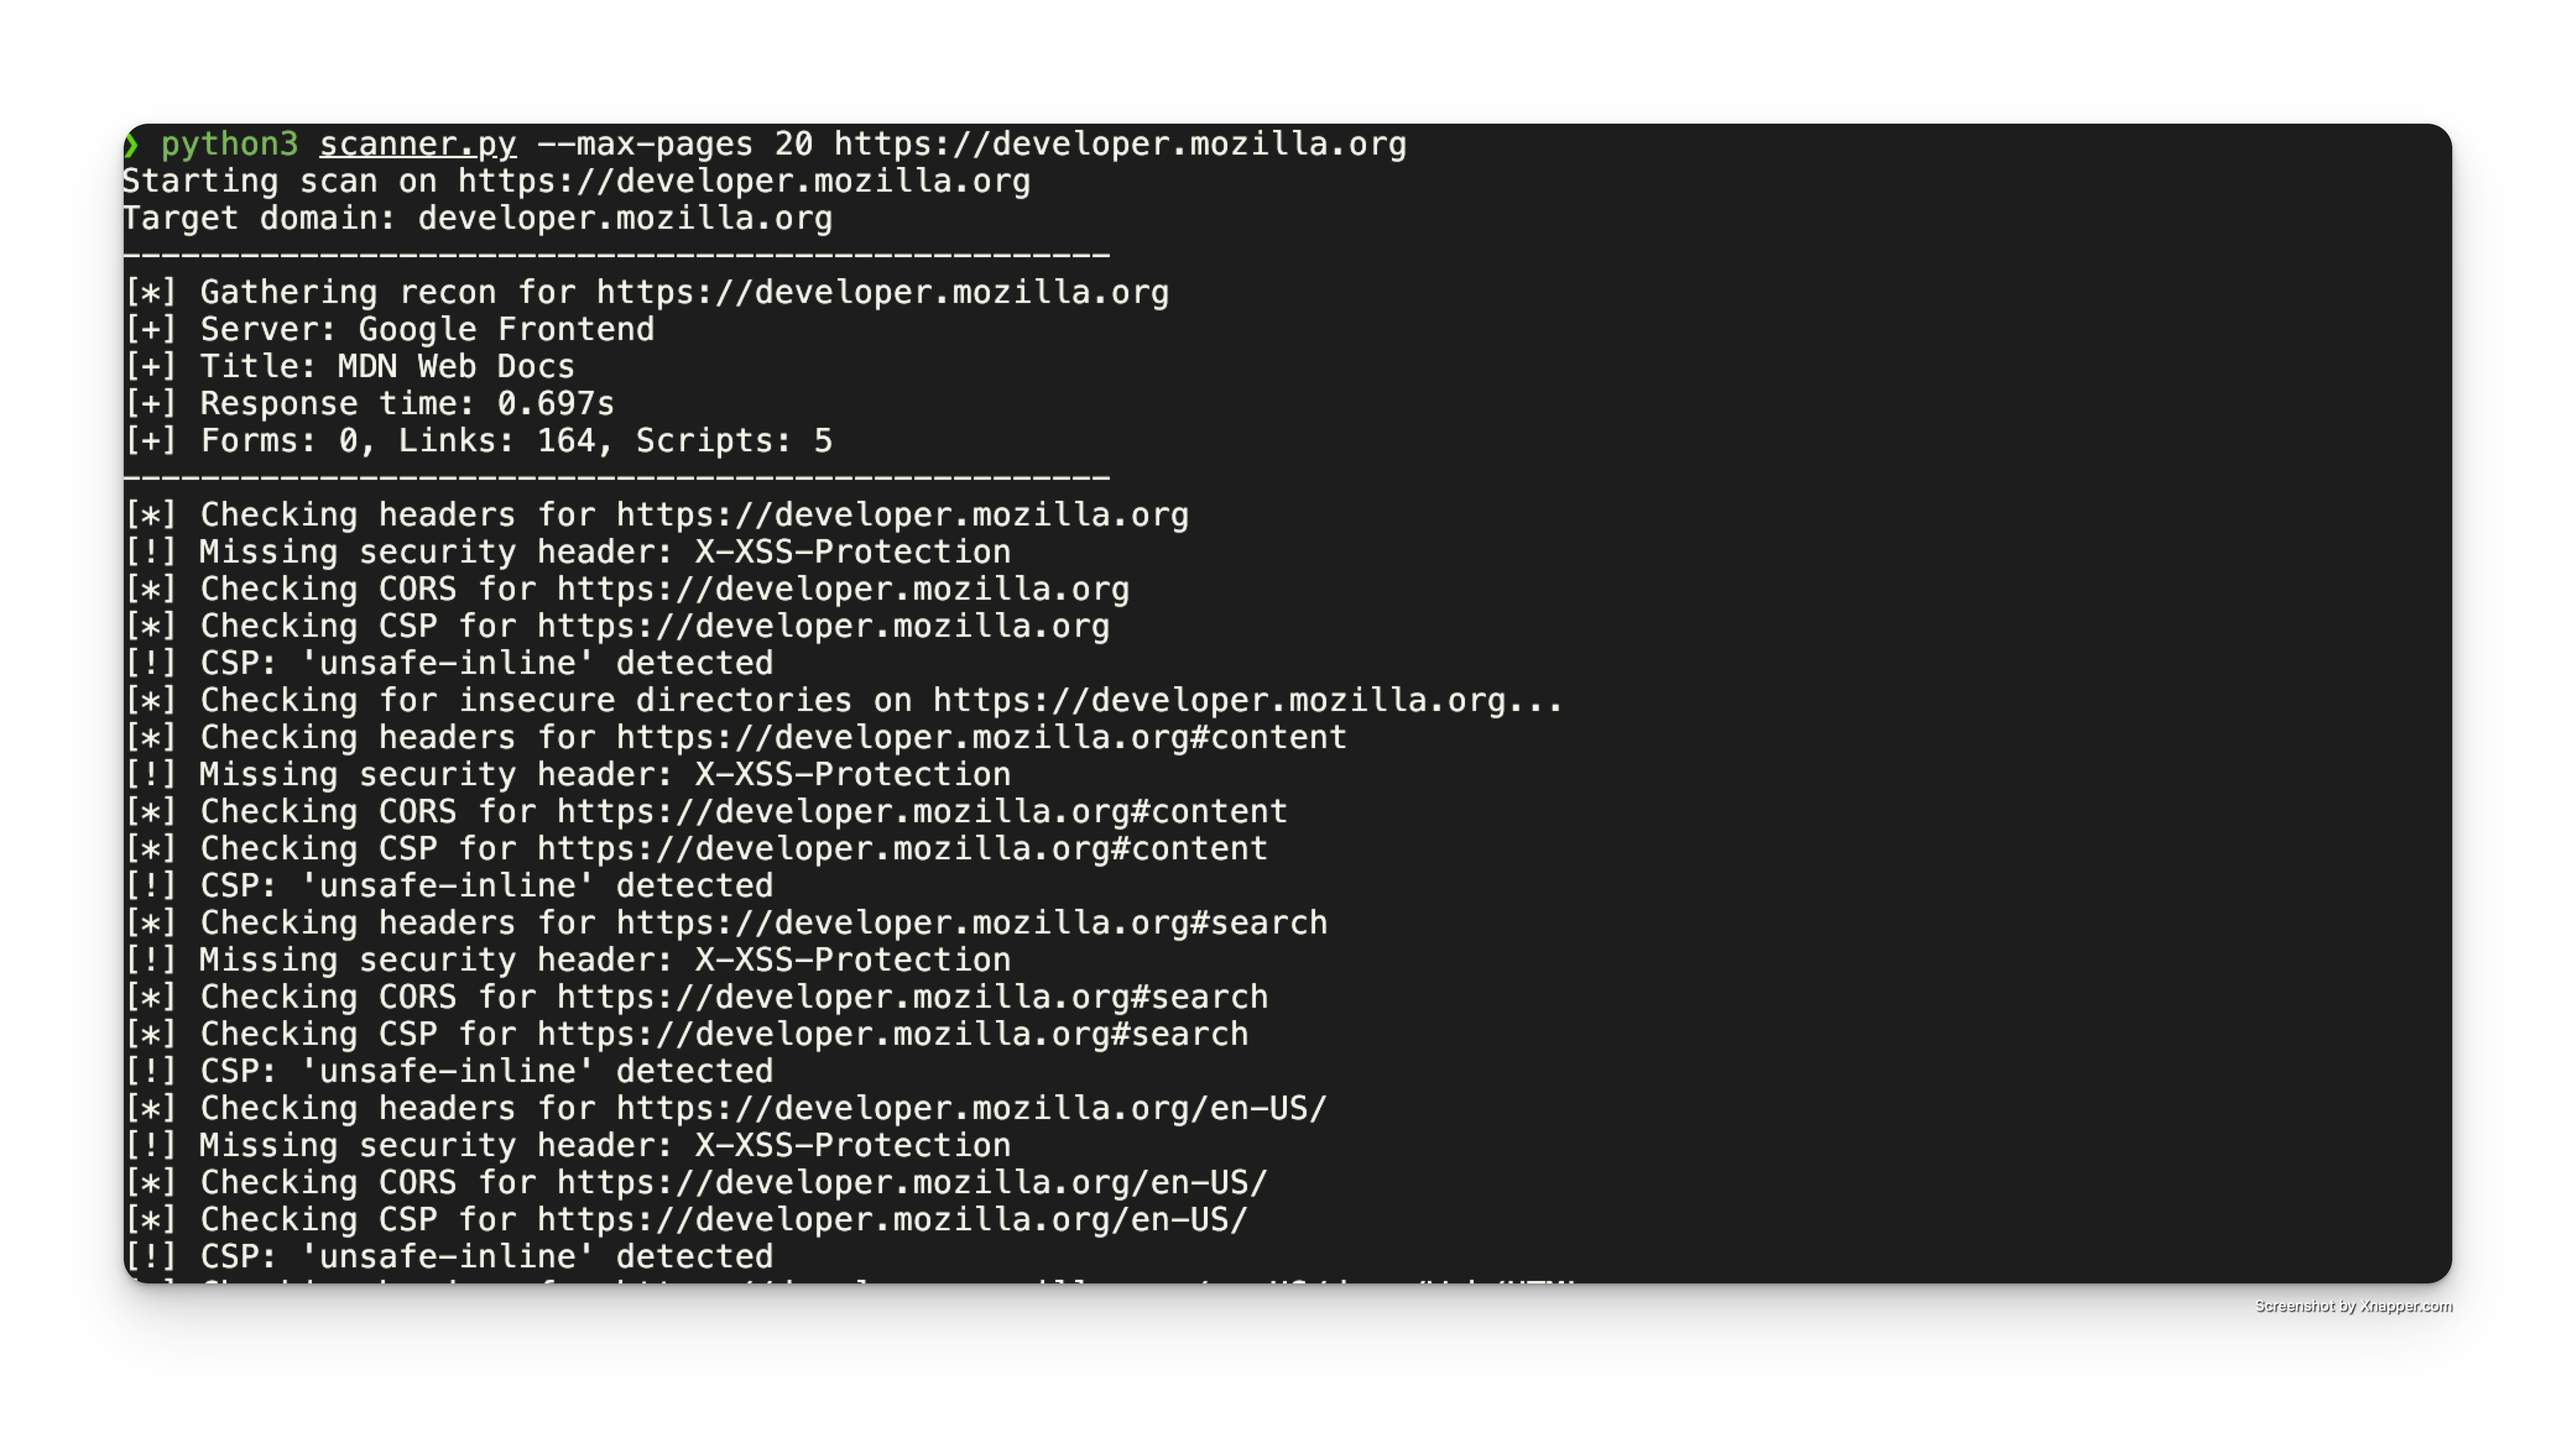
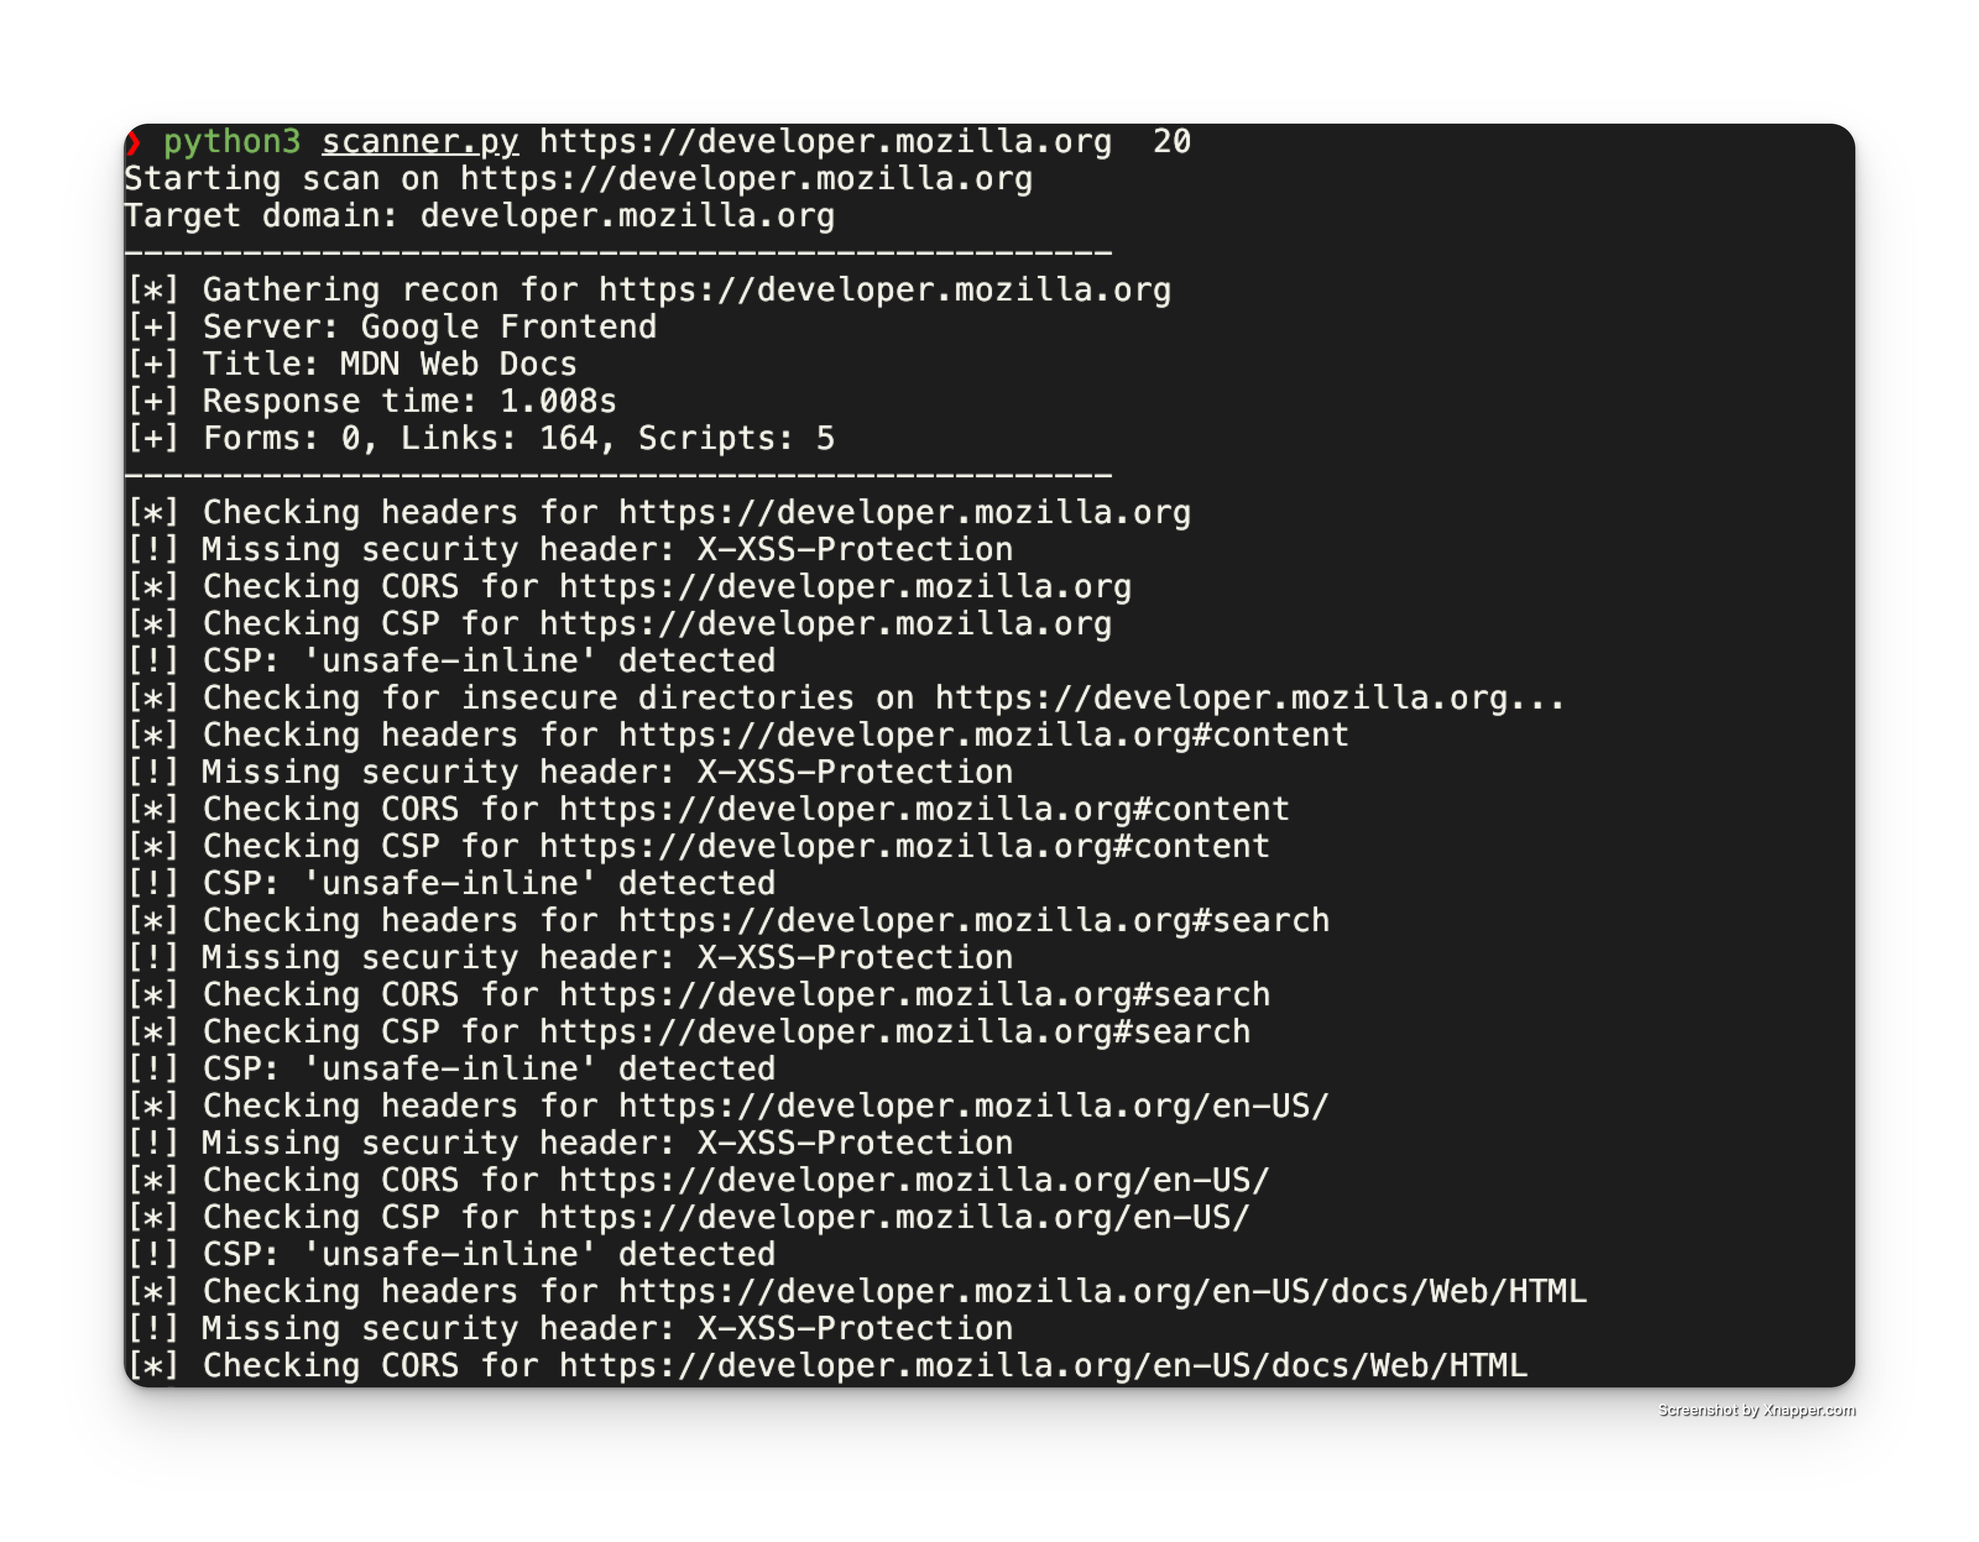
Fix docs

Changed region(s): [[0.0312, 0.0619, 0.9688, 0.9286]]

diff --git a/README.md b/README.md
@@ -36,13 +36,13 @@
 Запустите сканер из командной строки:
 
 ```bash
-python scanner.py <url> [--max-pages <число>]
+python scanner.py <url> <max-pages>
 ```
 
 Пример:
 
 ```bash
-python scanner.py http://example.com --max-pages 20
+python scanner.py http://example.com 20
 ```
 ![Example](docs/example.png)
 ## Тестирование
